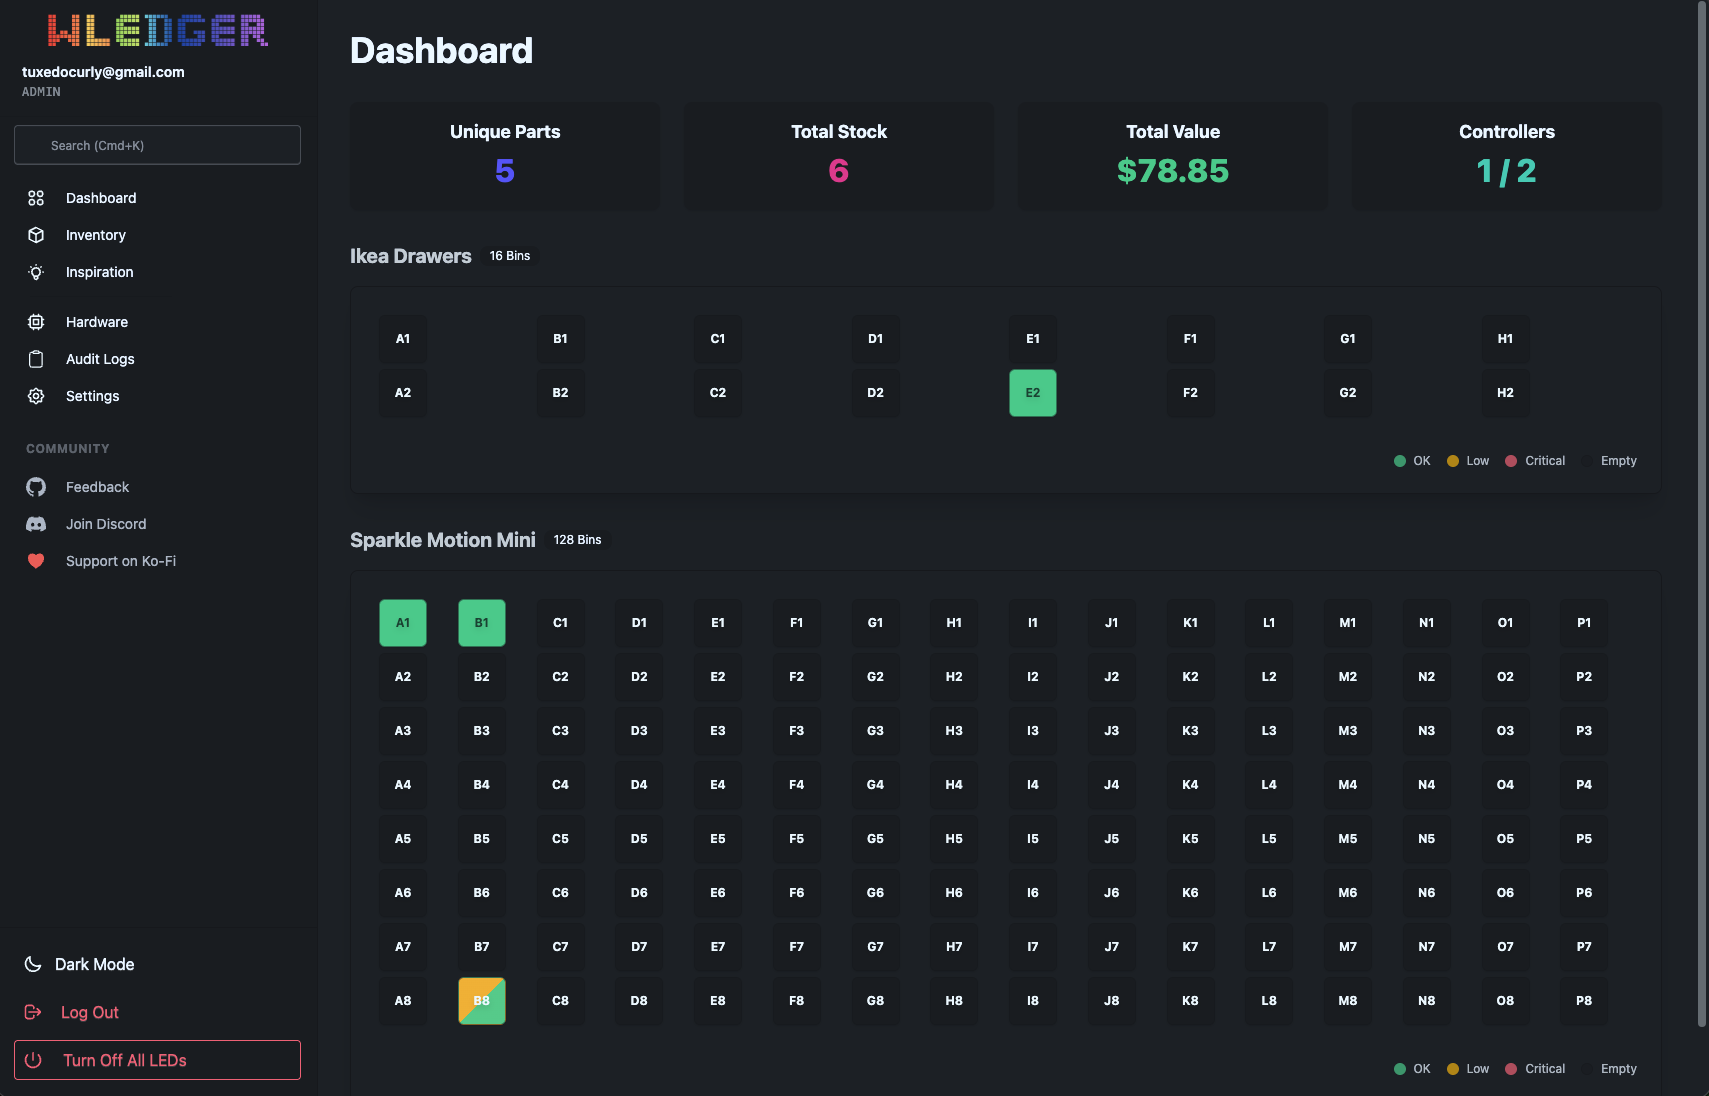
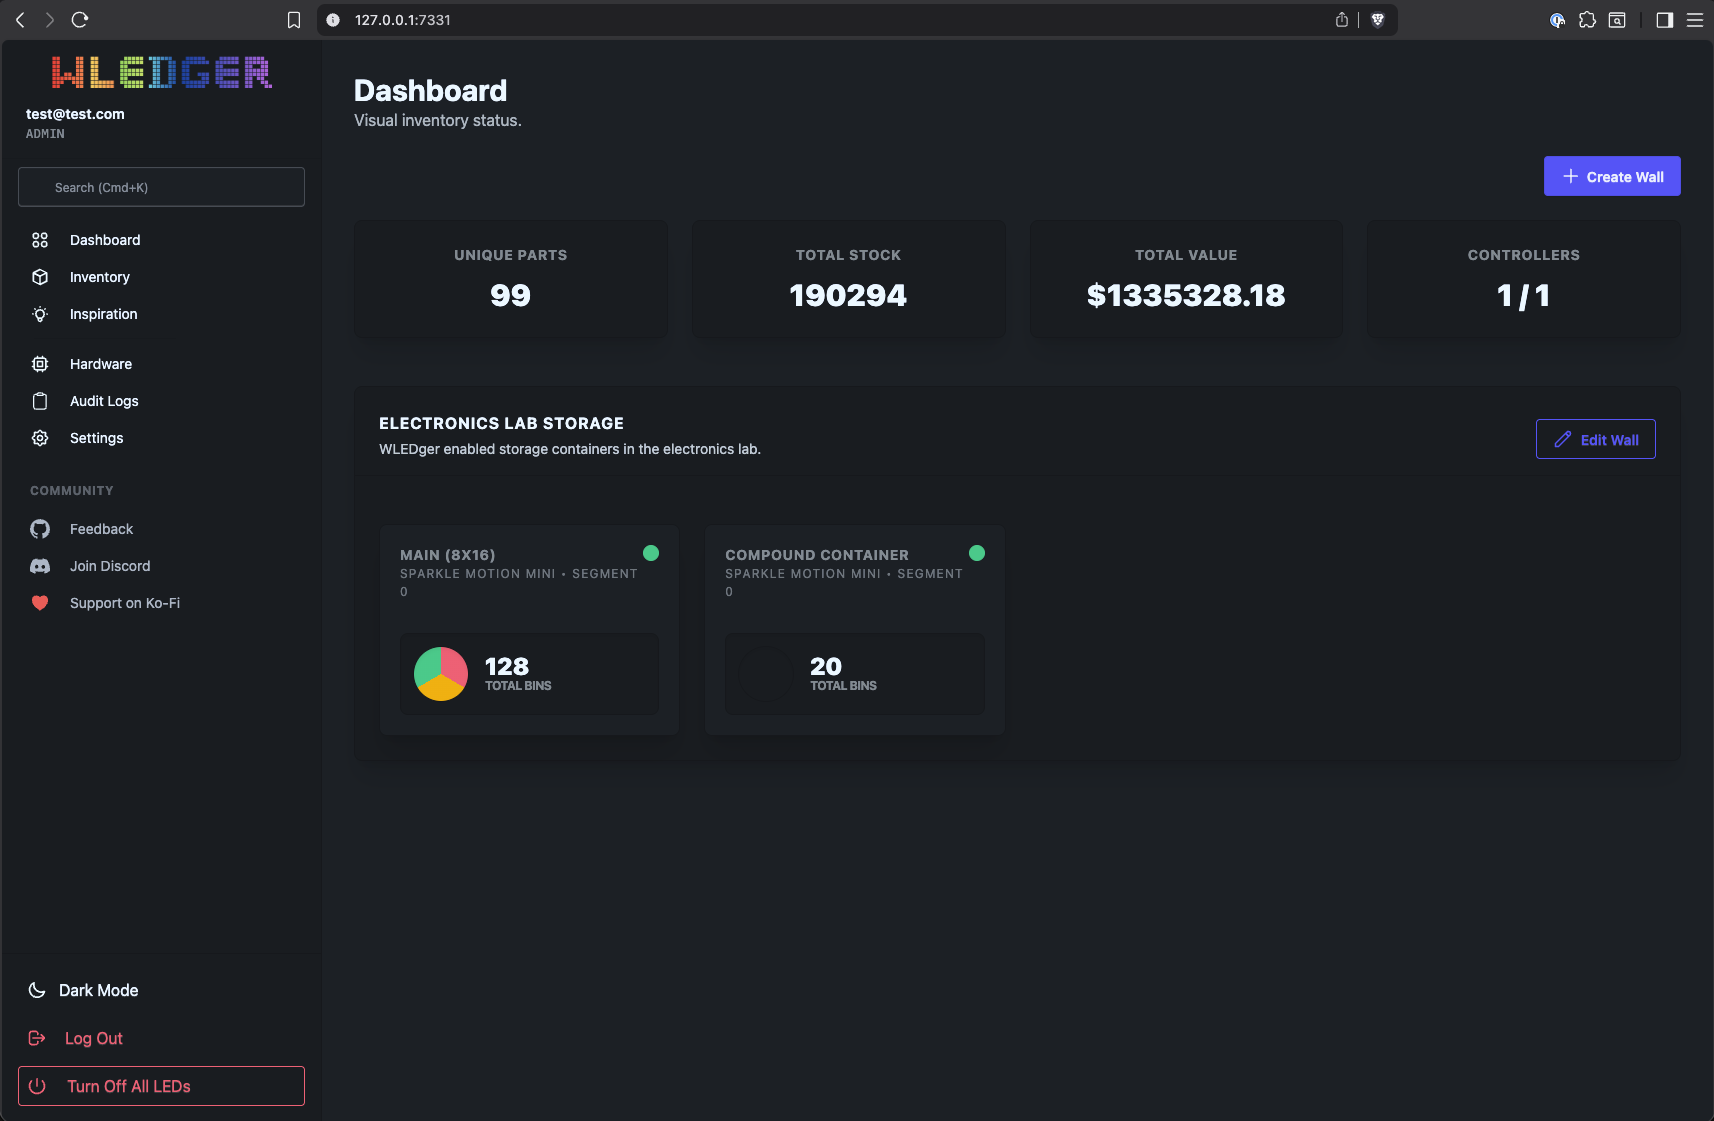
update documentation

diff --git a/docs/feature-guide.md b/docs/feature-guide.md
@@ -40,10 +40,11 @@ WLEDger uses **SQLite FTS5** (Full-Text Search) to provide instant results.
 
 ### Dashboard
 
-The dashboard provides stats about your entire inventory and WLED controllers at a glance.
+The dashboard provides a high-level overview of your entire inventory and the status of your physical storage bins.
 
-* **Multiple Controllers:** Visualize the status of the parts in your inventory (Critical, Low, OK), organized per-bin & per-controller. There's no need to physically check your bins anymore!
-* **Stats:** View total part count, inventory value, and online controller status in one place.
+* **Walls & Organization:** Organize your storage containers and controllers into logical **Walls**. This allows you to group parts by physical location (e.g., "Workbench Wall", "Garage Shelves") or logical category.
+* **Visual Status Tracking:** Instantly see the status of parts in your inventory (Critical, Low, OK) visually represented per-bin and per-container.
+* **Inventory Stats:** View total unique part counts, total items in stock, total inventory value, and the online/offline status of all your WLED controllers at a glance.
 
 ---
 
@@ -58,12 +59,15 @@ This is what makes WLEDger special: connecting your digitally managed inventory 
 
 ### The Grid Painter
 
-Setting up LED mapping can be tedious. The **Grid Painter** makes it visual and easy.
+Mapping physical LEDs to digital bins is the core of WLEDger's locating system. The **Grid Painter** provides a powerful visual interface to accomplish this without writing a single line of code or manual coordinate.
 
-* **Visual Mapping:** Instead of typing coordinates, you see a grid representing your LEDs. Map them using the Auto Map feature, or manually map a custom data line run for ultimate flexibility.
-* **Matrix Support:** Easily map 2D grids (e.g., 8x8 panels) with automatic row/column addressing.
-* **Strip Support:** Map linear strips for shelves or drawers.
-* **Compound Layouts:** Have a container with different sized bins? Choose a compound layout to define sections of grids.
+* **Layout Types:**
+    * **Matrix:** Ideal for 2D grids (e.g., 8x8 or 16x16 LED panels). Automatically handles row and column addressing.
+    * **Linear:** Perfect for linear arrangements like shelf edges or drawer runs.
+    * **Compound:** For advanced users with complex storage. Define multiple sections within a single container, each with its own grid or strip configuration.
+* **Auto Mapping:** Use the Auto Map feature to quickly generate a sequential bin layout based on your grid dimensions.
+* **Manual Painting:** For irregular bin shapes or custom wiring paths, use the manual painter to click and drag over specific LEDs to define a bin.
+* **Bin IDs:** Each mapped bin is assigned a unique ID (e.g., `A1-1`), which is used to associate parts with their physical locations.
 
 ### Locating Parts
 

diff --git a/docs/quickstart-guide.md b/docs/quickstart-guide.md
@@ -114,24 +114,36 @@ To get the full experience, you'll need to connect WLEDger to a WLED controller.
 
 ### 2. Configure the LED Grid
 
-1. Click on the newly added controller to view its details.
-2. Click **"Open Grid Painter"**.
-3. This visual tool allows you to map your physical LEDs to virtual "Bins".
+1. Click **'Configure'** on the newly added controller to view its details.
+2. You should now be in the hardware configuration screen.
+3. This visual tool allows you to map your physical containers and LEDs to virtual "Bins" using different layouts:
     * **Matrix:** Use this if you have a square grid (e.g., 8x8).
-    * **Strip:** Use this for linear shelves.
-4. Drag or click to define your bins. Each bin will be assigned an ID (e.g., `A1-1`).
+    * **Strip:** Use this for linear shelves or single rows of bins.
+    * **Compound:** Use this to define custom sections for complex bin arrangements.
+4. Use the **Auto Map** feature or manually click/drag to define your bins. Each bin will be assigned a unique ID.
 5. Click **"Save Map"**.
 
-### 3. Assign Parts
+### 3. Organize with Walls (Optional)
 
-1. Go to **Inventory > Parts**.
+By default, the dashboard will show you all of your configured controllers, containers, and bins. If you want a more organized view, you can use "walls" to create customizable dashboard sections. This is particularly useful for large or complex setups.
+
+1. Go to the **Dashboard**.
+2. Click **"Create Wall"**.
+3. Give your Wall a name (e.g., "Main Storage Wall") and description.
+4. Once created, click **"Edit Wall"** to add controller containers to this Wall.
+
+> You can create as many walls as you want! You can also mix and match containers from various controllers on a single wall. Nice!
+
+### 4. Assign Parts
+
+1. Go to **Inventory**.
 2. Create a new part or edit an existing one.
-3. In the "Stock" section, select one of your new Bins from the dropdown.
-4. Click **"Add Stock"**.
+3. In the "Stock" section, select **"Add Stock"** and select the controller + bin you would like to add stock to.
+4. Save, and navigate back to your dashboard to see the stock status for that part.
 
-### 4. Locate
+### 5. Locate
 
-Go back to the **Parts List**, find your part, and click the **Locate** button. Your LEDs should light up!
+Go back to the **Inventory**, find your part, and click the **Locate** button (eye icon). Your LED/bin should light up!
 
 ---
 
@@ -139,3 +151,4 @@ Go back to the **Parts List**, find your part, and click the **Locate** button. 
 
 * **[Hardware Guide](./build-guide.md):** Detailed advice on building your own LED storage cabinets.
 * **[Developer Guide](./developer-guide.md):** Learn how the code works and how to contribute.
+* **[Feature Guide](./feature-guide.md):** Learn about all of WLEDger's features, what they do, and how to use them.

diff --git a/docs/index.md b/docs/index.md
@@ -14,7 +14,8 @@ Built with **Go**, **HTMX**, and **SQLite**, WLEDger V2 is designed to be fast, 
 
 * **Physical Location Tracking:** Instantly locate parts by lighting up specific LEDs on your storage bins, shelves, or drawers.
 * **Instant Search:** Powered by SQLite **FTS5**, search your entire inventory, tags, and descriptions in milliseconds.
-* **Visual WLED Configuration:** A powerful visual tool to map your physical LEDs to your storage bins. No manual coordinate entry required.
+* **Visual Grid Painter:** A powerful visual tool to map your physical LEDs to your storage bins using Matrix, Strip, or Compound layouts.
+* **Custom Walls / Dashboards:** Organize your storage containers and controllers into logical "Walls" for a clean, high-level overview of your entire storage setup.
 * **Rich Part Details:** Store images, datasheets, supplier links, and documents for every component.
 * **LLM Prompt Integration:** Generate inspiration for projects to build based on your inventory, or create your own prompts to accomplish common tasks. Copy the prompt and paste it into into your favorite LLM (Gemini, ChatGPT, Claude, etc), and your parts are appended to the prompt automatically.
 * **Backup & Restore:** Full system backup to a portable ZIP file.
@@ -27,11 +28,14 @@ This documentation is divided into three main sections:
 1. **[Quick Start](./quickstart-guide.md)**
     * Start here! A complete guide to installing WLEDger using Docker and setting up your first WLED controller.
 
-2. **[Hardware Guide](./build-guide.md)**
+2. **[Build Guide](./build-guide.md)**
     * Learn about the hardware requirements: microcontrollers, LED strips, power supplies, and storage bin recommendations.
 
 3. **[Developer Guide](./developer-guide.md)**
     * For those who want to contribute or understand the code. Explains the Go/Templ/HTMX architecture and development workflow.
+
+4. **[Feature Guide](./feature-guide.md)**
+    * Learn about all the features WLEDger offers to make the most out of your setup.
 
 ---
 

diff --git a/docs/developer-guide.md b/docs/developer-guide.md
@@ -33,8 +33,11 @@ wledger/
 │   ├── auth/           # RBAC and Session logic.
 │   ├── backup/         # Backup & restore logic.
 │   ├── config/         # Contains constants used throughout the app.
+│   ├── dashboard/      # Dashboard stats and wall organization service.
 │   ├── db/             # Generated SQLC database code and migration runner.
+│   ├── documents/      # Document and datasheet management.
 │   ├── handler/        # HTTP Handlers (decoupled from main).
+│   ├── hardware/       # WLED controller and bin mapping service.
 │   ├── images/         # Image handling and resizing logic.
 │   ├── importer/       # CSV Import logic.
 │   ├── inspiration/    # LLM Prompt storage logic.
@@ -42,7 +45,9 @@ wledger/
 │   ├── middleware/     # Handles context passing, auth, and enforces checks.
 │   ├── parts/          # Parts service for part CRUD operations.
 │   ├── router/         # Chi router configuration and route registration.
+│   ├── stock/          # Stock management across multiple locations.
 │   ├── tags/           # Tags service for tag CRUD operations.
+│   ├── uierror/        # UI-specific error handling and feedback.
 │   ├── utils/          # Small utilities.
 │   └── wled/           # WLED API client and integration.
 ├── sql/

diff --git a/README.md b/README.md
@@ -34,8 +34,9 @@ Existing tools were expensive, closed source or lacking in features/WLED integra
 Connect your WLED-powered LED strips or matrices to your storage.
 
 - **Visual Locate:** Click "Locate" on a part, and its bin glows instantly.
+- **Grid Painter:** Use the visual Grid Painter tool to easily map LEDs to bins using Matrix, Strip, or Compound layouts.
+- **Walls / Dashboards:** Organize your containers and controllers into customizable "Walls" for a clean, organized dashboard view.
 - **Stock Status Colors:** Configure different colors for "Locate", "In Stock", "Low Stock", and "Critical".
-- **Grid & Strip Support:** Map LEDs to physical bins using linear strips or 2D grids.
 
 ### Powerful Inventory Management
 
@@ -83,7 +84,7 @@ WLEDger V2 has been written for performance, type safety, and extensibility.
 
 ---
 
-## Getting Started
+## Install WLEDger
 
 ### Option 1: Docker (Recommended)
 
@@ -123,7 +124,7 @@ docker compose up -d
 ```
 
 Visit `http://localhost:8080` to see the WLEDger UI.
->Tip: Install the website as a PWA on Android or iOS to get a native app-like experience.
+>Tip: Save the website as a shortcut on Android or iOS for quick access!
 
 ### Option 2: Build from Source
 
